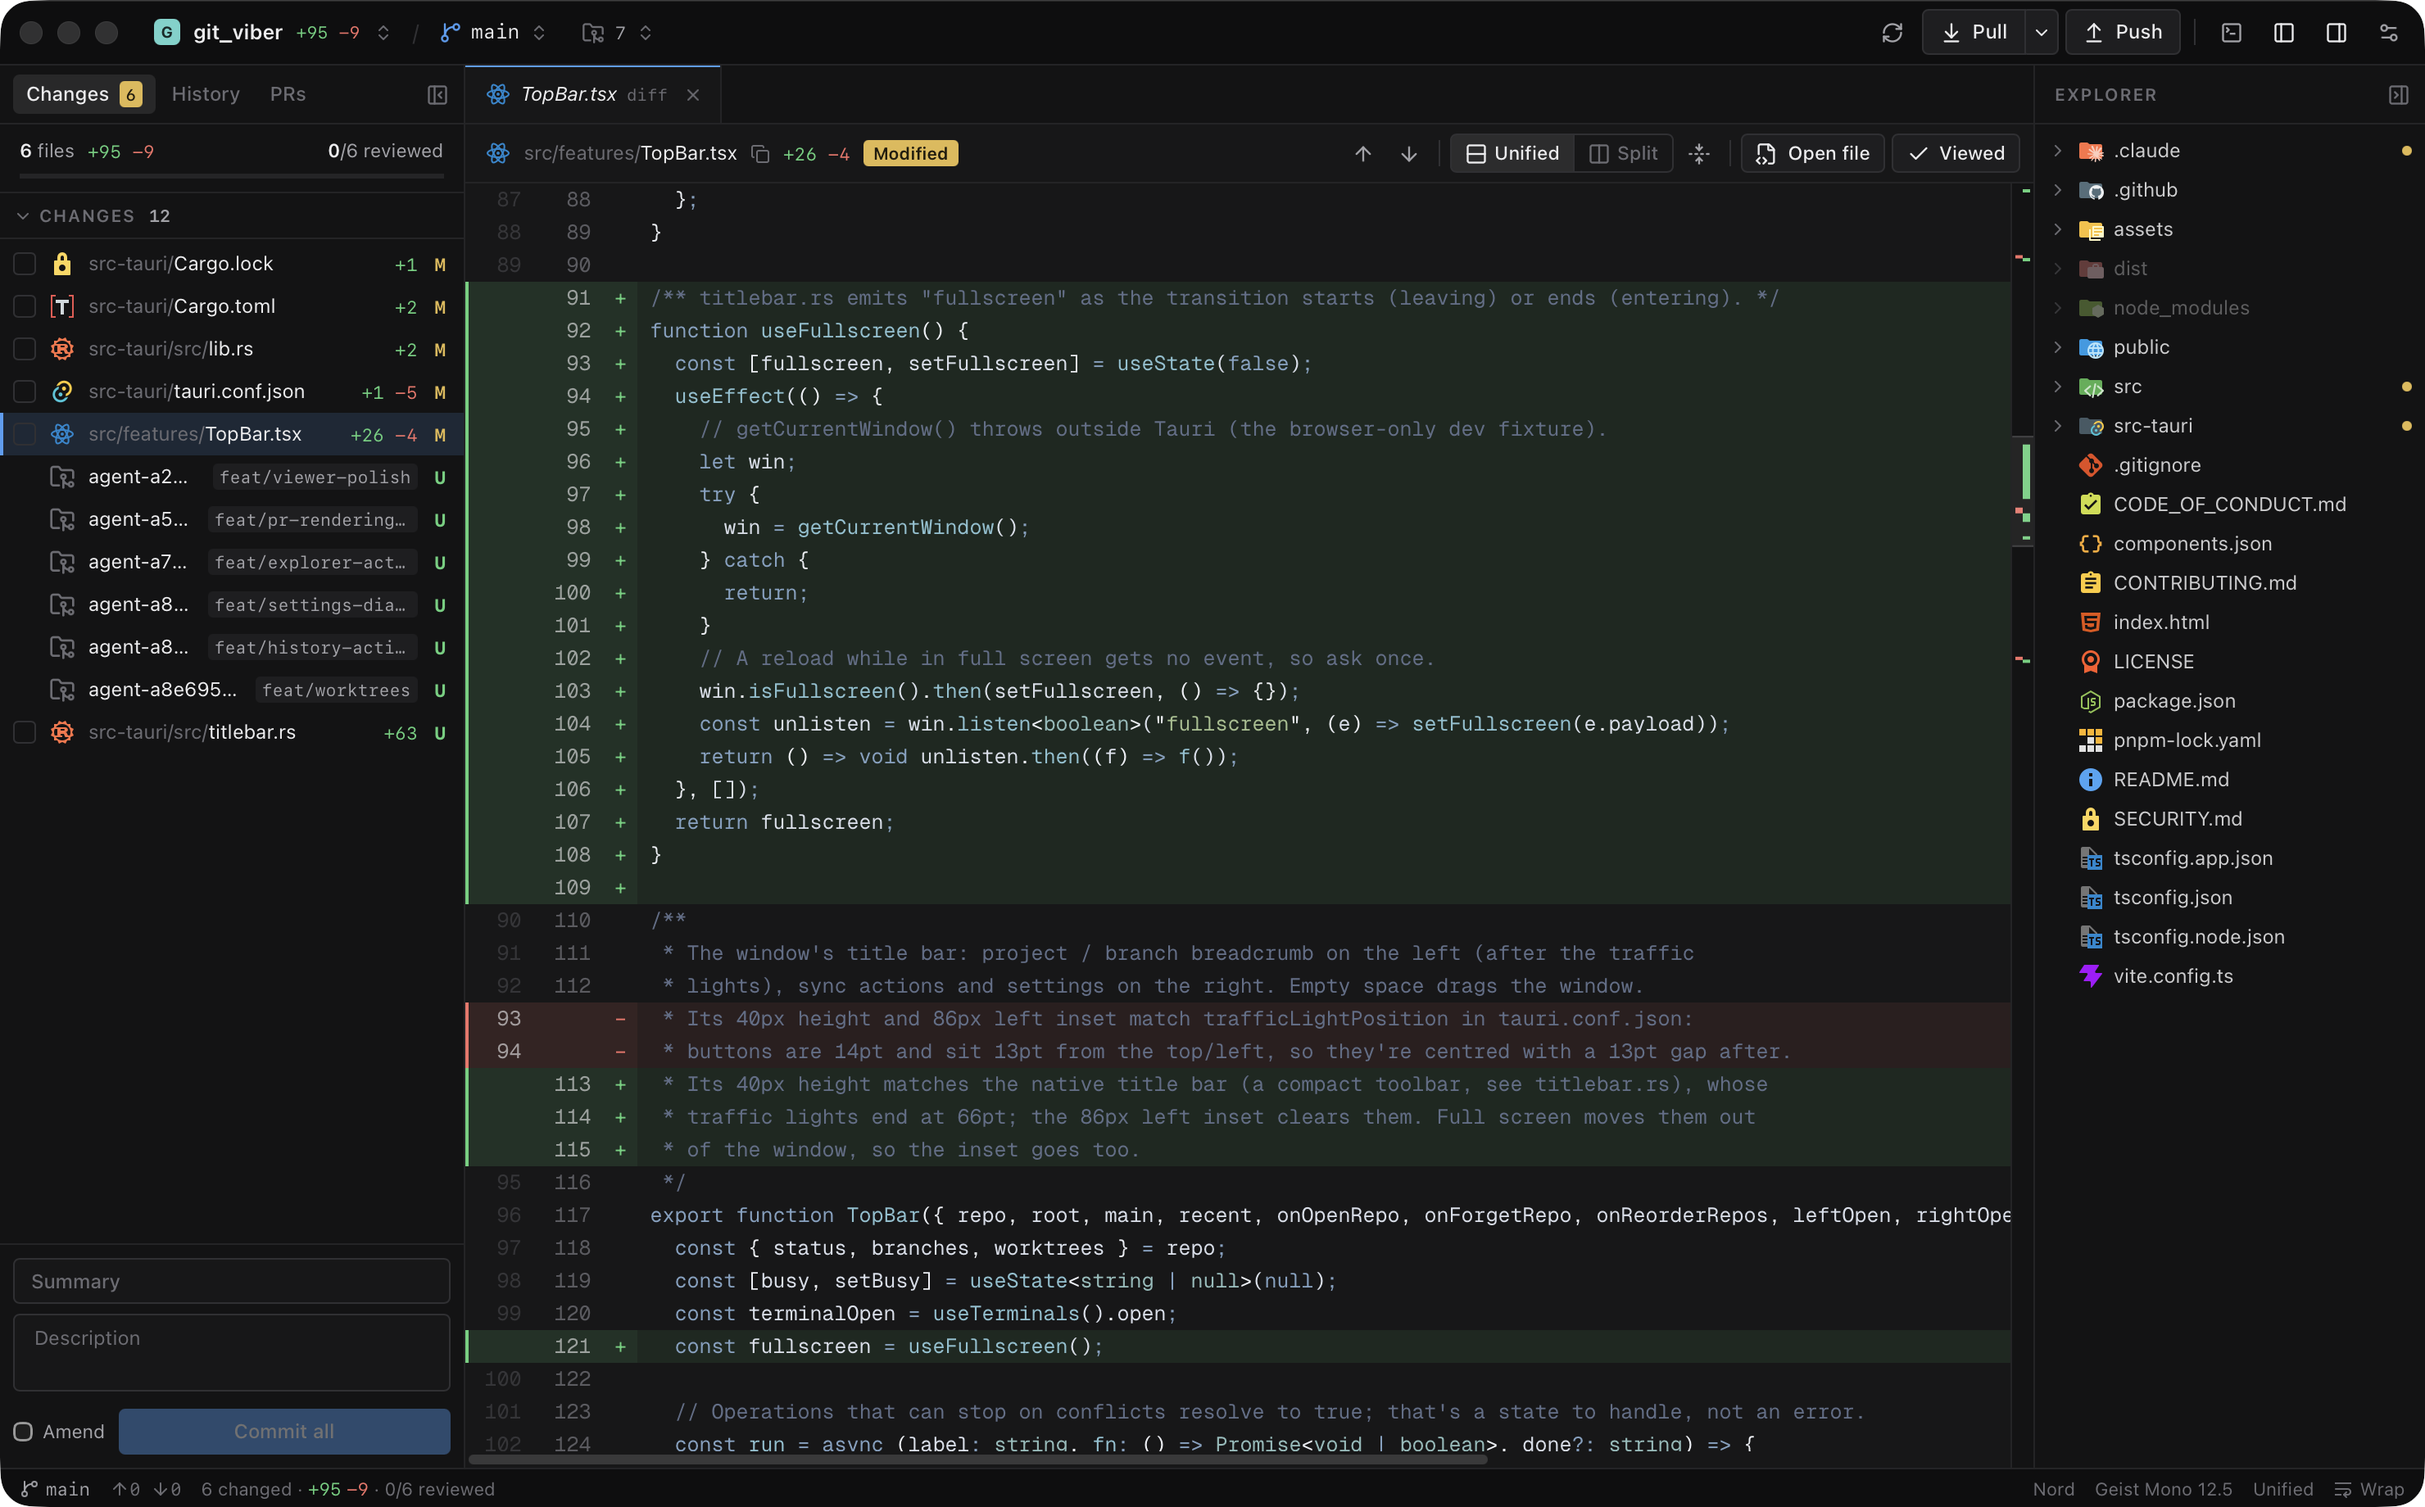
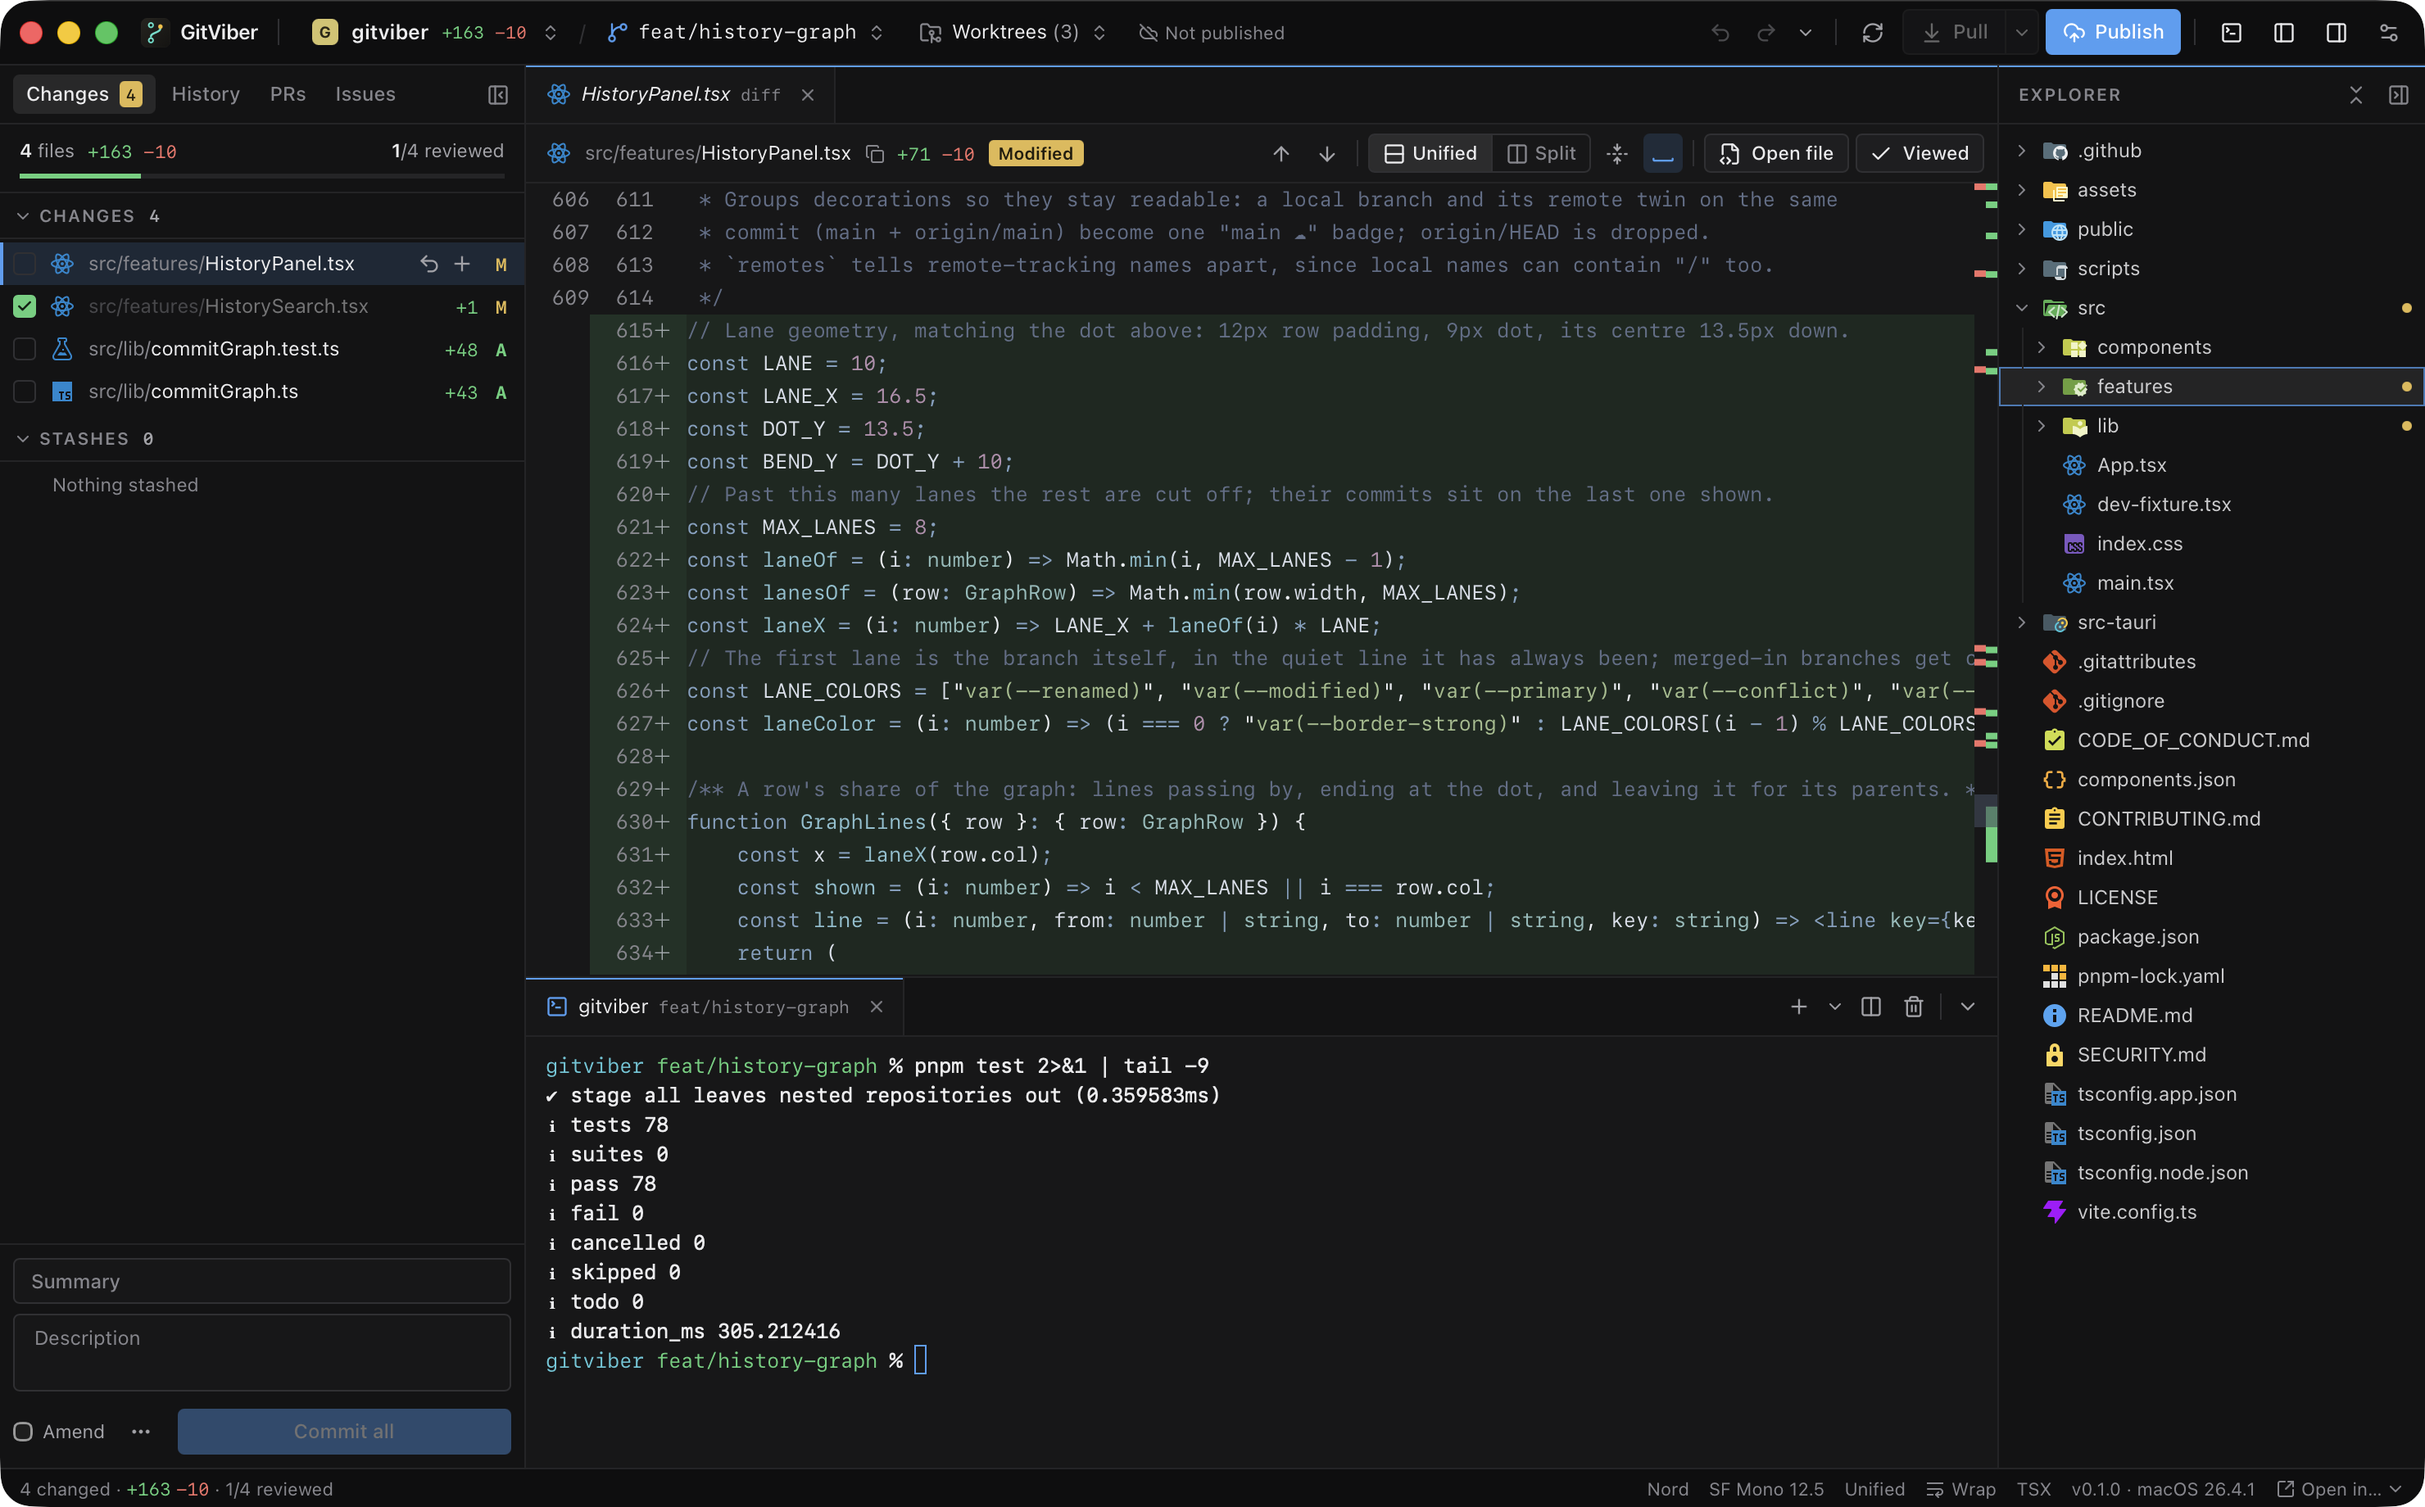
docs(readme): pitch GitViber as one app for vibe coding
New screenshots of the diff, explorer and terminal together, the history
graph and a pull request, plus a GIF of Claude Code writing a commit message.

diff --git a/README.md b/README.md
@@ -5,64 +5,97 @@
 <h1 align="center">GitViber</h1>
 
 <p align="center">
-  A desktop git client for reviewing what your coding agents wrote.
+  <b>Vibe code from one app.</b><br>
+  Run your agents in parallel worktrees, watch their diffs land live, browse the code, test it in
+  the terminal and commit, without GitHub Desktop, an editor and three terminal windows open.
 </p>
 
 <p align="center">
   <a href="https://github.com/emircan-sahin/gitviber/actions/workflows/ci.yml"><img alt="CI" src="https://img.shields.io/github/actions/workflow/status/emircan-sahin/gitviber/ci.yml?branch=main&style=flat-square&label=CI"></a>
-  <img alt="macOS" src="https://img.shields.io/badge/platform-macOS-lightgrey?style=flat-square">
-  <a href="LICENSE"><img alt="MIT" src="https://img.shields.io/badge/license-MIT-blue?style=flat-square"></a>
+  <img alt="macOS and Linux" src="https://img.shields.io/badge/platform-macOS%20%7C%20Linux-lightgrey?style=flat-square">
+  <a href="LICENSE"><img alt="GPL-3.0" src="https://img.shields.io/badge/license-GPL--3.0-blue?style=flat-square"></a>
 </p>
 
-![GitViber](assets/screenshot-dark.png)
+![GitViber with a diff, the file explorer and the terminal open](assets/screenshot-dark.png)
 
-I run a few agents at once, each in its own worktree, and spend most of the day reading their
-diffs. Editors show hunks, GitHub shows them after the push, and most git clients weren't built
-for a repo that changes while you look at it. GitViber is the tool I wanted for that: full files,
-live updates, every worktree one click away, and a terminal right under the diff.
+## Why GitViber
 
-It's plain git underneath. Every action runs the `git` CLI with your own config, hooks,
-credentials and signing, and GitViber writes nothing of its own into the repo.
+Coding with agents turned the day into reading code. You start Claude Code or Codex in a few
+worktrees, then juggle an editor to look at the files, GitHub Desktop to see the diffs, a pile of
+terminals to run things and a browser for the pull requests. Editors like Cursor easily eat
+gigabytes of RAM just to let you read.
 
-## Features
+GitViber is one window for all of it, and it's small:
 
-| | |
-| --- | --- |
-| **Diffs** | Whole files, unified or split, with word-level highlights and collapsible unchanged regions |
-| **Review** | `J` / `K` through changed files, `V` to mark one viewed. The mark clears when the agent touches the file again |
-| **Live** | Status, diffs and the file tree refresh as files change, without losing your scroll position |
-| **Worktrees** | Switch worktrees from the top bar, see each one's change count, check a branch out into a new worktree in one step, remove the ones you're done with |
-| **Terminal** | Your login shell under the diff (`⌘J`), with tabs and splits. Each worktree keeps its own terminals |
-| **Branches** | Merge, rebase, and pull with fast-forward, merge or rebase |
-| **Conflicts** | Resolve block by block (current, incoming, both, or edit by hand), then continue, skip or abort |
-| **Pull requests** | List, read (with GitHub markdown), review in the same viewer, create, merge, check out. GitHub only for now |
-| **Issues** | List, read, open, edit, comment on, close (completed or not planned), reopen and delete (admins). GitHub only |
-| **History** | Right-click a commit to undo, revert, reset, check out or tag it. Anything that rewrites pushed commits asks first |
-| **Explorer** | Browse any file with change bars in the gutter. Rename, delete to Trash, create and reveal from the right-click menu |
-| **Settings** | Light and dark themes, eight syntax themes, interface scale, fonts, and every shortcut rebindable (`⌘,`) |
+- **14 MB app.** GitHub Desktop is 681 MB. No bundled Chromium, a Rust core and the system webview.
+- **Idles at 0% CPU.** It wakes up when files change, not on a timer.
+- **Fast on big diffs.** Diffs are computed in Rust and highlighted off the main thread.
+- **Plain git underneath.** Your config, hooks, credentials and signing. Nothing of its own goes into the repo.
 
-The project's own worktrees stay out of Changes, even when they live inside it. Other repos nested
-inside the project show up there but are kept out of staging, so a stray `git add` can't turn them
-into gitlinks.
+## Everything in one window
+
+### Many agents, one screen
+
+Give every agent its own worktree and switch between them from the top bar, each with its change
+count. Check a branch out into a new worktree in one step and remove it when the work is merged.
+Every worktree keeps its own terminals, so nothing gets lost when you hop between them.
+
+### Watch the work land
+
+Diffs refresh the moment an agent saves, without losing your scroll position. Whole files, unified
+or split, word-level highlights. `J` / `K` walk the changed files and `V` marks one viewed; when
+the agent touches it again, the mark clears so you know to look again.
+
+### Test it right there
+
+A real terminal sits under the diff (`⌘J`), with tabs and splits. Run the tests, start the dev
+server or talk to the agent without leaving the change you're reading.
+
+### Browse the code, not just the diff
+
+A full file explorer with change bars in the gutter, quick open (`⌘P`) and rename, create and
+delete from the right-click menu. For most days that's the editor you no longer need open.
+
+### Commit messages from your agent
+
+Turn it on in Settings, hit the sparkle next to the commit box, and your own `claude -p` or
+`codex exec` writes the message from the diff. No API key, no extra account: it uses the CLI
+you're already signed in to.
+
+![Claude Code writing a commit message in GitViber](assets/commit-message.gif)
+
+### Good-looking, and yours
+
+Light and dark themes, eight syntax themes, your own code font and interface scale. Every action
+has a shortcut, every shortcut can be rebound, and holding `⌘` shows them all.
 
 <table>
   <tr>
-    <td><img alt="Light theme" src="assets/screenshot-light.png"></td>
-    <td><img alt="Pull request view" src="assets/screenshot-pr.png"></td>
+    <td><img alt="History with the branch graph, light theme" src="assets/screenshot-light.png"></td>
+    <td><img alt="Reviewing a pull request" src="assets/screenshot-pr.png"></td>
   </tr>
 </table>
 
-## Build
+### And the rest of git
 
-There are no release builds yet. You need Rust (stable), Node 22+, pnpm and git.
+| | |
+| --- | --- |
+| **History** | Branches and merges as a colored lane graph. Undo, revert, reset, check out or tag from the right-click menu; anything that rewrites pushed commits asks first |
+| **Branches** | Merge, rebase, and pull with fast-forward, merge or rebase |
+| **Conflicts** | Resolve block by block (current, incoming, both, or by hand), then continue, skip or abort |
+| **Pull requests** | List, read, review in the same diff viewer, create, merge and check out (GitHub) |
+| **Issues** | List, read, open, edit, comment, close and reopen (GitHub) |
+
+## Install
+
+There are no signed release builds yet, so for now you build it. You need Rust (stable), Node 22+,
+pnpm and git.
 
 ```sh
+git clone https://github.com/emircan-sahin/gitviber && cd gitviber
 pnpm install
-pnpm tauri dev      # run the app (takes the next free port if 1420 is in use)
-pnpm tauri dev --port 1421   # or pick one
-pnpm tauri build    # release bundle
-pnpm install:mac    # release build, installed into /Applications (quits and replaces the running one)
-pnpm check          # what CI runs: build, tests, rustfmt, clippy
+pnpm install:mac    # macOS: builds a release and copies it into /Applications
+pnpm tauri build    # Linux: makes a .deb, an .rpm and an AppImage
 ```
 
 On Linux, Tauri's webview also needs WebKitGTK 4.1 and a C toolchain:
@@ -73,15 +106,30 @@ sudo dnf install webkit2gtk4.1-devel gcc                       # Fedora
 sudo pacman -S --needed webkit2gtk-4.1 base-devel              # Arch
 ```
 
-`pnpm tauri build` makes a `.deb`, an `.rpm` and an AppImage. If the AppImage step fails in
-`linuxdeploy` (its bundled `strip` is too old for current toolchains, e.g. on Arch), run it with `NO_STRIP=true`.
+If the AppImage step fails in `linuxdeploy` (its bundled `strip` is too old for current
+toolchains, e.g. on Arch), run it with `NO_STRIP=true`.
 
-GitViber is used daily on macOS. CI also builds and tests it on Linux, but the app itself is only
-starting to get used there ([#35](https://github.com/emircan-sahin/gitviber/issues/35)). Windows is untested.
+GitViber is used daily on macOS. CI builds and tests it on Linux too, but the app itself is only
+starting to get used there ([#35](https://github.com/emircan-sahin/gitviber/issues/35)). Windows
+is untested.
+
+## Privacy
+
+No telemetry, no API keys. The app talks to your git remotes and, for pull requests and issues,
+GitHub. For those it borrows a login you already have, the GitHub CLI (`gh auth token`) first,
+then git's stored github.com credential, and keeps the token in memory. Errors go to a local file
+(`~/Library/Logs/app.gitviber.desktop/errors.log` on macOS) and nowhere else. Markdown from GitHub
+is cut down to GitHub's own HTML allowlist, and an image hosted outside GitHub loads only when you
+click it. Commit message suggestions go wherever the command you picked sends them.
 
 ## Shortcuts
 
-Every shortcut in the list below except moving around a list or view (arrows, `↵`, `⎋`, `⇧F10`) can be rebound in Settings (`⌘,`).
+<details>
+<summary>Every shortcut, and how they map on Linux</summary>
+
+<br>
+
+Every shortcut below except moving around a list or view (arrows, `↵`, `⎋`, `⇧F10`) can be rebound in Settings (`⌘,`).
 While you type, only shortcuts with `⌘`, `⌃` or an F-key apply, except `⌘←` `⌘→` and `⌃` with a letter, which edit the text.
 On Linux and Windows `⌘` is Ctrl, the views are on Alt+1–4, Ctrl+Tab / Ctrl+Shift+Tab switch tabs, and the terminal's
 `⌘T` `⌘D` `⌘K` `⌘W` are Ctrl+Shift+T, D, K and W, since Ctrl+letter stays the shell's.
@@ -90,6 +138,7 @@ On Linux and Windows `⌘` is Ctrl, the views are on Alt+1–4, Ctrl+Tab / Ctrl+
 | --- | --- |
 | `⌘,` | Settings |
 | Hold `⌘`, or `⌘/` | Show every shortcut, the ones that don't work where you are dimmed (the hold can be turned off in Settings) |
+| `⇧⌘P` `⌘P` | Command palette, quick open |
 | `⌃1` `⌃2` `⌃3` `⌃4` | Changes, History, PRs, Issues |
 | `⌘1` … `⌘8`, `⌘9` | Go to tab 1 to 8, the last tab |
 | `⇧⌘]` `⇧⌘[`, `⌘→` `⌘←`, `⌃⇥` `⌃⇧⇥` | Next / previous tab |
@@ -115,31 +164,23 @@ On Linux and Windows `⌘` is Ctrl, the views are on Alt+1–4, Ctrl+Tab / Ctrl+
 | `⌘R` | Refresh |
 | `⌘O` | Open repository |
 
-## GitHub sign-in
+</details>
 
-GitViber never asks for a token. For pull requests and issues it borrows a login you already have: the GitHub
-CLI (`gh auth token`) first, then git's stored github.com credential (Keychain, GitHub Desktop, Git
-Credential Manager). The token stays in memory.
-
-## Privacy
-
-No API keys, no telemetry. The app talks to your git remotes and, for pull requests and issues, GitHub.
-Errors go to a local file (`~/Library/Logs/app.gitviber.desktop/errors.log` on macOS) and nowhere else.
-It only reads files inside the repository you open. Markdown from GitHub is cut down to
-GitHub's own HTML allowlist (no scripts, styles or forms), and an image hosted outside GitHub
-loads only when you click it.
-
-## Stack
+## Hacking on it
 
 Tauri 2 and Rust on the backend, React 19 with Radix and Tailwind v4 on the front. Diffs are
 computed in Rust with `similar`, highlighting is Shiki in a web worker, and the UI runs in the
 system webview, so there's no bundled Chromium.
 
-## Contributing
+```sh
+pnpm tauri dev      # run the app (takes the next free port if 1420 is in use)
+pnpm check          # what CI runs: build, tests, rustfmt, clippy
+```
 
-Bug reports and small, focused PRs are welcome. [CONTRIBUTING.md](CONTRIBUTING.md) covers setup and
-the few rules the app depends on. Report security issues privately, see [SECURITY.md](SECURITY.md).
+Bug reports and small, focused PRs are welcome. [CONTRIBUTING.md](CONTRIBUTING.md) covers setup
+and the few rules the app depends on. Report security issues privately, see [SECURITY.md](SECURITY.md).
 
 ## License
 
-[MIT](LICENSE)
+[GPL-3.0](LICENSE). Use it, change it, share it; a fork you ship has to stay open under the same
+license.
